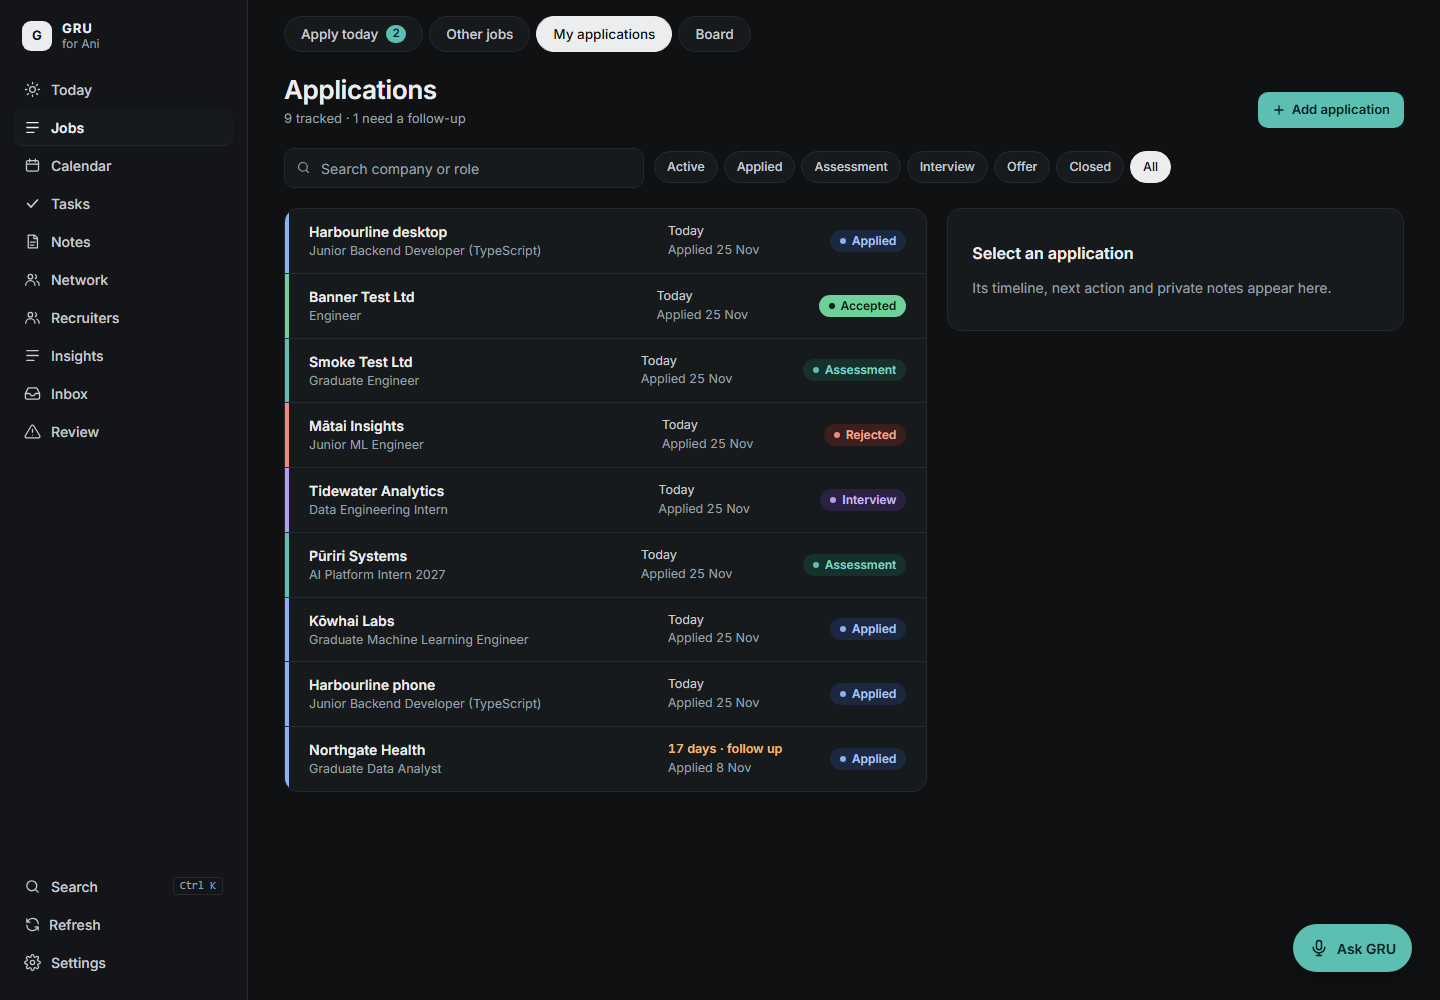
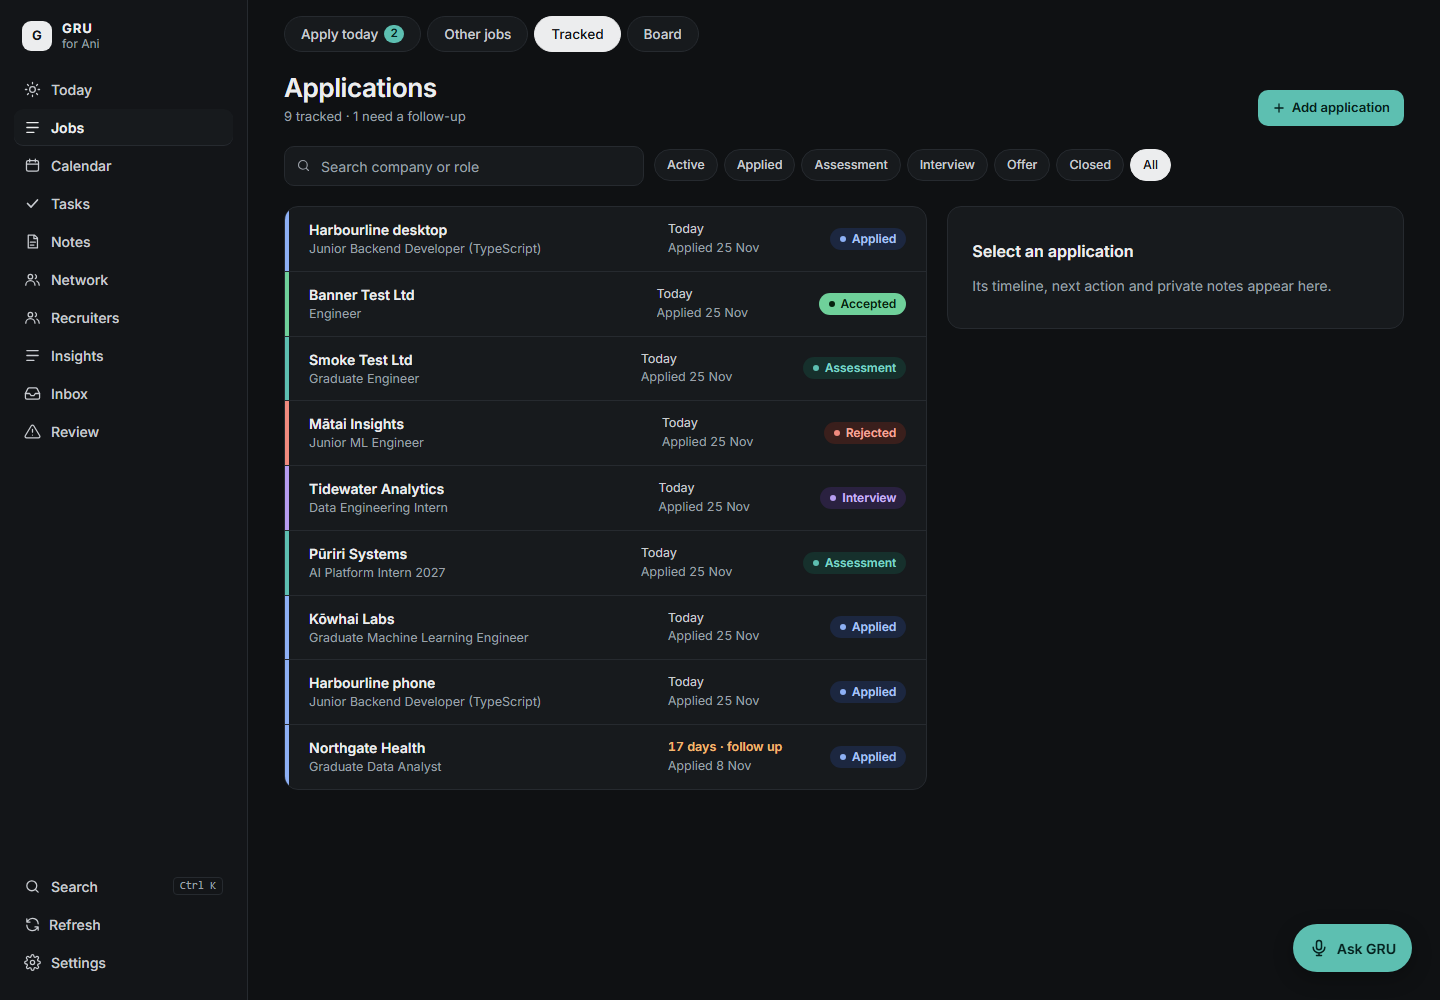
Polish: card padding, tab fit, title wrapping, chart label overflow, FAB clearance

diff --git a/apps/web/src/pages/Applications.tsx b/apps/web/src/pages/Applications.tsx
@@ -341,7 +341,7 @@ function ApplicationDetail({ id, onClose }: { id: number; onClose: () => void })
 const TABS = [
   { key: "apply", label: "Apply today" },
   { key: "other", label: "Other jobs" },
-  { key: "tracked", label: "My applications" },
+  { key: "tracked", label: "Tracked" },
   { key: "board", label: "Board" },
 ] as const;
 
@@ -356,14 +356,14 @@ export function ApplicationsPage() {
   const ready = queue.data?.items.length ?? 0;
   return (
     <>
-      <div role="tablist" aria-label="Applications" className="flex gap-1.5 overflow-x-auto pb-0.5">
+      <div role="tablist" aria-label="Applications" className="flex gap-1 sm:gap-1.5">
         {TABS.map((t) => (
           <Link
             key={t.key}
             role="tab"
             aria-selected={tab === t.key}
             to={t.key === "apply" ? "/applications" : `/applications?tab=${t.key}`}
-            className={cx("inline-flex h-9 flex-none items-center gap-2 rounded-full border px-4 text-[13.5px] font-medium no-underline", tab === t.key ? "border-ink bg-ink text-bg" : "border-line bg-surface text-ink-2 hover:text-ink")}
+            className={cx("inline-flex h-9 min-w-0 flex-none items-center gap-1.5 rounded-full border px-3 text-[12.5px] font-medium whitespace-nowrap no-underline sm:px-4 sm:text-[13.5px]", tab === t.key ? "border-ink bg-ink text-bg" : "border-line bg-surface text-ink-2 hover:text-ink")}
           >
             {t.label}
             {t.key === "apply" && ready > 0 && <span className={cx("grid min-w-5 place-items-center rounded-full px-1.5 text-[11.5px] font-semibold tabular-nums", tab === "apply" ? "bg-bg text-ink" : "bg-accent text-accent-ink")}>{ready}</span>}

diff --git a/apps/web/src/components/PipelineBoard.tsx b/apps/web/src/components/PipelineBoard.tsx
@@ -44,7 +44,7 @@ export function PipelineBoard() {
   const apps = q.data ?? [];
   if (apps.length === 0) return <Card><EmptyState title="No applications yet">Add one, or mark a job as applied, and it appears here.</EmptyState></Card>;
   return (
-    <div className="flex gap-3 overflow-x-auto pb-2" aria-label="Pipeline board">
+    <div className="-mx-4 flex snap-x snap-mandatory gap-3 overflow-x-auto px-4 pb-2 sm:mx-0 sm:px-0" aria-label="Pipeline board">
       {COLUMNS.map((col) => {
         const items = apps.filter((a) => col.statuses.includes(a.status));
         return (
@@ -59,7 +59,7 @@ export function PipelineBoard() {
               const a = apps.find((x) => x.id === id);
               if (a && !col.statuses.includes(a.status)) move.mutate({ id, status: col.drop });
             }}
-            className={cx("flex w-[220px] flex-none flex-col gap-2 rounded-xl border p-2", over === col.key ? "border-accent bg-accent-wash" : "border-line bg-sunken")}
+            className={cx("flex w-[78vw] max-w-[260px] flex-none snap-start flex-col gap-2 rounded-xl border p-2 sm:w-[220px]", over === col.key ? "border-accent bg-accent-wash" : "border-line bg-sunken")}
           >
             <h2 className="m-0 flex items-center justify-between px-1 text-[13px] font-semibold">{col.label}<span className="text-[12px] font-normal text-muted tabular-nums">{items.length}</span></h2>
             {items.map((a) => (

diff --git a/apps/web/src/components/DailyLoop.tsx b/apps/web/src/components/DailyLoop.tsx
@@ -65,8 +65,8 @@ export function BriefCard({ onAdd }: { onAdd: () => void }) {
         {quiet && b.follow_ups.length === 0 && <li className="text-muted">All clear. Nothing needs you right now.</li>}
         {focus && <li><Pill tone="accent">Today’s focus</Pill> <span className="text-ink">{focus}</span></li>}
       </ul>
-      <div className="flex items-center justify-between gap-3 border-t border-line px-5 py-3">
-        <span className="text-[12.5px] text-muted">{done ? "Check-in done for today." : skipped ? "Check-in skipped today." : "A 1-minute check-in keeps your pipeline accurate."}</span>
+      <div className="flex flex-wrap items-center justify-between gap-x-3 gap-y-2 border-t border-line px-5 py-3">
+        <span className="min-w-[10rem] flex-1 text-[12.5px] text-muted">{done ? "Check-in done for today." : skipped ? "Check-in skipped today." : "A 1-minute check-in keeps your pipeline accurate."}</span>
         <div className="flex flex-none gap-2">
           <Button size="sm" onClick={() => window.dispatchEvent(new CustomEvent("gru:voice", { detail: "brief" }))}>Read aloud</Button>
         {!done && <Button size="sm" variant="primary" onClick={() => setOpen(true)}>{skipped ? "Check in anyway" : "Start check-in"}</Button>}

diff --git a/apps/web/src/components/NetworkCard.tsx b/apps/web/src/components/NetworkCard.tsx
@@ -13,9 +13,9 @@ export function NetworkCard() {
     <Card>
       <SectionTitle aside={<Link to="/network" className="text-[13px] font-medium text-accent-text no-underline">Network →</Link>}>Network</SectionTitle>
       {empty ? (
-        <p className="m-0 text-[13.5px] text-ink-2">Start building relationships early: add companies you’d love to work at, then talk to the people doing the work. <Link to="/network">Get started</Link></p>
+        <p className="m-0 px-5 pb-4 text-[13.5px] text-ink-2">Start building relationships early: add companies you’d love to work at, then talk to the people doing the work. <Link to="/network">Get started</Link></p>
       ) : (
-        <p className="m-0 text-[13.5px] text-ink-2">
+        <p className="m-0 px-5 pb-4 text-[13.5px] text-ink-2">
           {o.week.outreach} of {o.week.goals.outreach} outreach this week · {o.week.conversations} of {o.week.goals.conversations} conversations
           {o.due.length > 0 ? <> · <Link to="/network"><strong>{o.due.length} follow-up{o.due.length === 1 ? "" : "s"} due</strong></Link></> : null}
         </p>

diff --git a/apps/web/src/pages/Insights.tsx b/apps/web/src/pages/Insights.tsx
@@ -8,9 +8,9 @@ function Bar({ name, value, max, note, tone = "bg-accent" }: { name: string; val
   const pct = max > 0 ? Math.max(value > 0 ? 3 : 0, Math.round((value / max) * 100)) : 0;
   return (
     <div className="flex items-center gap-2 text-[13px]">
-      <span className="w-28 flex-none text-ink-2">{name}</span>
-      <span className="h-3 flex-1 overflow-hidden rounded-sm bg-track"><span className={`block h-3 ${tone}`} style={{ width: `${pct}%` }} /></span>
-      <span className="w-20 flex-none text-right tabular-nums"><strong>{value}</strong>{note ? <span className="text-muted"> {note}</span> : null}</span>
+      <span className="w-24 flex-none truncate text-ink-2 sm:w-32" title={name}>{name}</span>
+      <span className="h-3 min-w-10 flex-1 overflow-hidden rounded-sm bg-track"><span className={`block h-3 ${tone}`} style={{ width: `${pct}%` }} /></span>
+      <span className="min-w-8 flex-none text-right whitespace-nowrap tabular-nums"><strong>{value}</strong>{note ? <span className="text-muted"> {note}</span> : null}</span>
     </div>
   );
 }

diff --git a/apps/web/src/components/OnboardingCard.tsx b/apps/web/src/components/OnboardingCard.tsx
@@ -31,10 +31,10 @@ export function OnboardingCard() {
   return (
     <Card>
       <SectionTitle aside={<button type="button" onClick={dismiss} className="cursor-pointer text-[12.5px] text-muted underline">Dismiss</button>}>Getting started · {steps.length - left.length} of {steps.length}</SectionTitle>
-      <ul className="m-0 flex list-none flex-col gap-1.5 p-0">
+      <ul className="m-0 flex list-none flex-col gap-2 px-5 pb-4">
         {steps.map((s) => (
-          <li key={s.text} className="flex items-start gap-2 text-[13.5px]">
-            <span aria-hidden="true" className={s.done ? "text-green" : "text-muted"}>{s.done ? "✓" : "○"}</span>
+          <li key={s.text} className="flex items-start gap-2.5 text-[13.5px] leading-snug">
+            <span aria-hidden="true" className={`w-4 flex-none text-center ${s.done ? "text-green" : "text-muted"}`}>{s.done ? "✓" : "○"}</span>
             {s.done ? <span className="text-muted line-through">{s.text}</span> : <Link to={s.to}>{s.text}</Link>}
           </li>
         ))}

diff --git a/apps/web/src/pages/Jobs.tsx b/apps/web/src/pages/Jobs.tsx
@@ -89,8 +89,8 @@ export function JobsPanel({ mode }: { mode: "apply" | "other" }) {
             <li key={j.id}>
               <Card className="flex flex-col gap-2.5 p-4">
                 <div className="flex items-start justify-between gap-3">
-                  <button type="button" onClick={() => nav(`/jobs/${j.id}`)} className="min-w-0 cursor-pointer text-left">
-                    <p className="m-0 truncate text-[15px] font-semibold">{j.title}</p>
+                  <button type="button" onClick={() => nav(`/jobs/${j.id}`)} className="min-w-0 flex-1 cursor-pointer text-left">
+                    <p className="m-0 line-clamp-2 text-[15px] leading-snug font-semibold">{j.title}</p>
                     <p className="m-0 truncate text-[13px] text-muted">{[j.company, j.location, j.work_arrangement].filter(Boolean).join(" · ") || "Details not set"}</p>
                   </button>
                   {j.score === null ? <Pill tone="neutral">Not scored</Pill> : (

diff --git a/apps/web/src/components/CommandPalette.tsx b/apps/web/src/components/CommandPalette.tsx
@@ -13,7 +13,7 @@ const PAGES: Hit[] = [
   { key: "p-today", label: "Today", hint: "Page", to: "/" },
   { key: "p-apply", label: "Apply today", hint: "Page", to: "/applications" },
   { key: "p-other", label: "Other jobs", hint: "Page", to: "/applications?tab=other" },
-  { key: "p-track", label: "My applications", hint: "Page", to: "/applications?tab=tracked" },
+  { key: "p-track", label: "Tracked applications", hint: "Page", to: "/applications?tab=tracked" },
   { key: "p-board", label: "Pipeline board", hint: "Page", to: "/applications?tab=board" },
   { key: "p-net", label: "Network", hint: "Page", to: "/network" },
   { key: "p-ins", label: "Insights", hint: "Page", to: "/insights" },

diff --git a/apps/web/src/components/AppShell.tsx b/apps/web/src/components/AppShell.tsx
@@ -115,7 +115,7 @@ export function AppShell() {
       <CommandPalette open={searching} onClose={() => setSearching(false)} />
       <VoiceAssistant />
       <PullToRefresh onRefresh={() => void refresh()} busy={busy} />
-      <main id="main" className="min-w-0 flex-1 px-4 pt-safe pb-28 sm:px-6 lg:px-9 lg:pt-7 lg:pb-12">
+      <main id="main" className="min-w-0 flex-1 px-4 pt-safe pb-36 sm:px-6 lg:px-9 lg:pt-7 lg:pb-12">
         <div className="mx-auto flex max-w-[1140px] flex-col gap-5">
           <div className="-mb-2 flex items-center justify-between lg:hidden">
             <span className="text-[12px] font-bold tracking-[0.1em] text-muted">GRU</span>

diff --git a/test/e2e/smoke.spec.ts b/test/e2e/smoke.spec.ts
@@ -296,7 +296,7 @@ test("Applications opens on 'Apply today' with good matches ready to apply; the 
   await page.getByRole("tab", { name: "Other jobs" }).click();
   await expect(page.getByText("Senior Truck Driver Not A Match").first()).toBeVisible(); // the rest, with filters
   await expect(page.getByLabel("Match")).toBeVisible();
-  await page.getByRole("tab", { name: "My applications" }).click();
+  await page.getByRole("tab", { name: "Tracked" }).click();
   await expect(page.getByRole("button", { name: "Add application", exact: true })).toBeVisible();
   await expect(page.getByRole("group", { name: "Filter by status" })).toBeVisible();
 });

diff --git a/apps/web/src/pages/Today.tsx b/apps/web/src/pages/Today.tsx
@@ -77,7 +77,7 @@ export function TodayPage() {
             title="Let’s set up your pipeline"
             action={<Button variant="primary" onClick={() => setAdding(true)}><PlusIcon size={14} />Add your first application</Button>}
           >
-            Start with the applications you’ve already sent. When Gmail is connected (next phase), GRU will spot replies, interviews and rejections for you.
+            Start with the applications you’ve already sent. When Gmail is connected, GRU will spot replies, interviews and rejections for you.
           </EmptyState>
         </Card>
       ) : (
